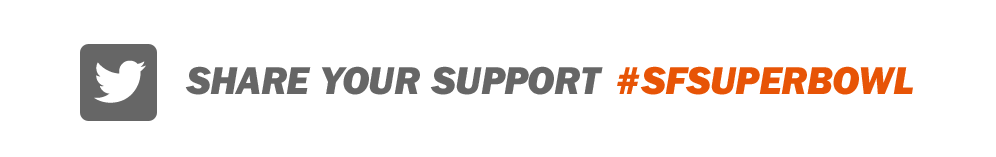
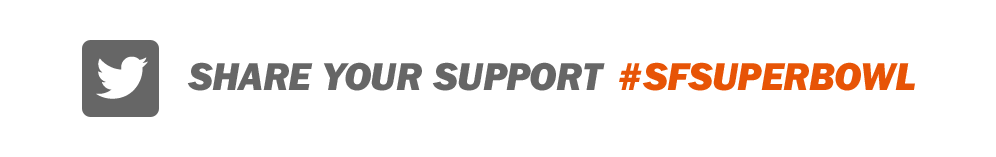
added new coming soone png

diff --git a/buzz/train-full.php b/buzz/train-full.php
@@ -191,7 +191,9 @@
 
 <ul class="trainCar" data-pos="335">
     <li class="trainCompartmentLong" data-pos="">
-        <a class="twitter link" href="https://twitter.com/intent/tweet?button_hashtag=SFSUPERBOWL&text=Let&rsquo;s&nbsp;bring&nbsp;the&nbsp;Bowl&nbsp;to&nbsp;the&nbsp;Bay!&nbsp;Show&nbsp;your&nbsp;support.#sfsuperbowl"><img src="../images/coming-soon-twitter.jpg" /></a>
+        
+        <!-- the anchor below had a class of twitter which was fucking it all up removed (by mike) and it fixed the buzz page -->
+        <a class=" link" href="https://twitter.com/intent/tweet?button_hashtag=SFSUPERBOWL&text=Let&rsquo;s&nbsp;bring&nbsp;the&nbsp;Bowl&nbsp;to&nbsp;the&nbsp;Bay!&nbsp;Show&nbsp;your&nbsp;support.#sfsuperbowl"><img src="../images/coming-soon-twitter.png" /></a>
         <script>!function(d,s,id){var js,fjs=d.getElementsByTagName(s)[0];if(!d.getElementById(id)){js=d.createElement(s);js.id=id;js.src="https://platform.twitter.com/widgets.js";fjs.parentNode.insertBefore(js,fjs);}}(document,"script","twitter-wjs");</script>
     </li>
 </ul>
